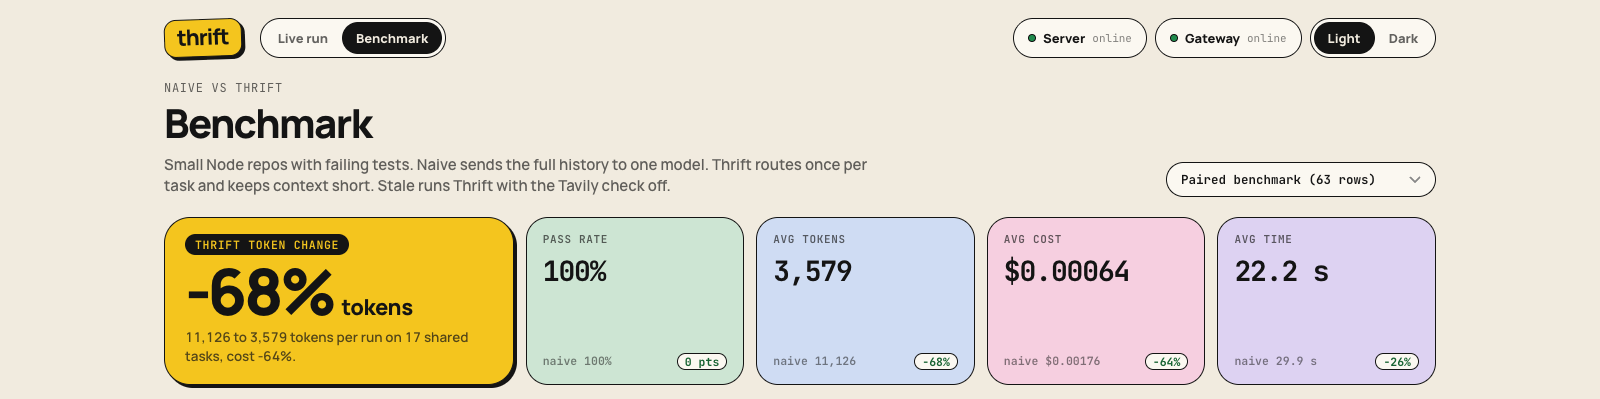
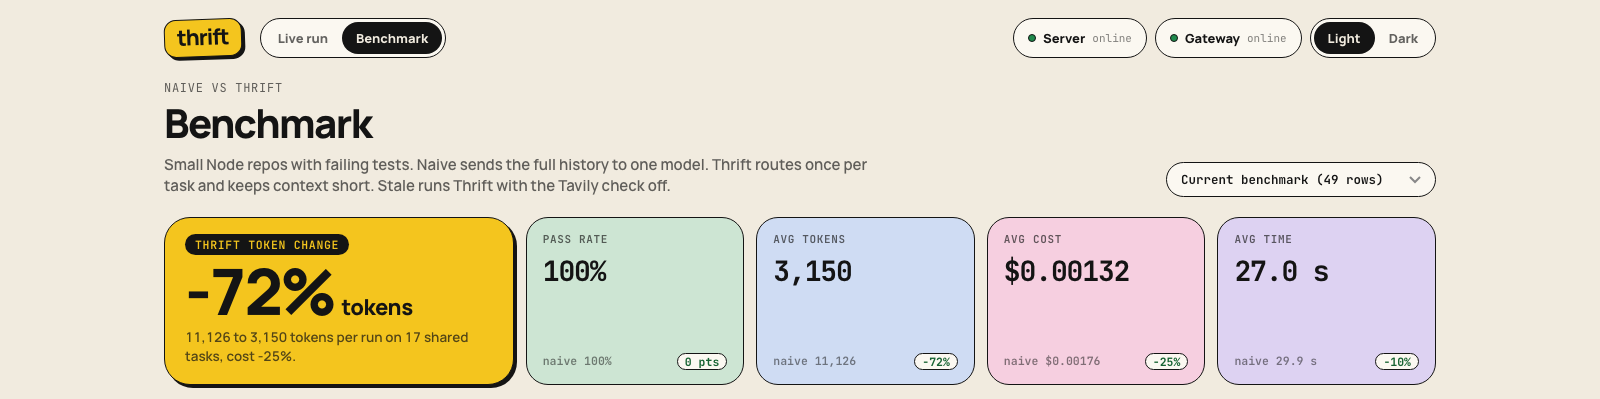
Rerun Thrift on all tasks after the write_files change

diff --git a/dashboard/server.ts b/dashboard/server.ts
@@ -229,13 +229,27 @@ function summary(run: Run) {
 
 const rawBenchFile = /^run-[\w.-]+\.jsonl$/;
 
-function pairedBench() {
+// A suite is a manifest of result files, each optionally limited to some
+// modes. "current-suite" pairs the recorded naive runs with the latest Thrift
+// run; "paired-suite" is the first full comparison.
+const suites = [
+  { name: "current-suite", label: "Current benchmark" },
+  { name: "paired-suite", label: "First benchmark" },
+];
+
+function suiteBench(name: string) {
   try {
-    const manifest: unknown = JSON.parse(fs.readFileSync(path.join(benchDir, "paired-suite.json"), "utf8"));
-    if (!Array.isArray(manifest) || !manifest.length || !manifest.every((name) => typeof name === "string" && rawBenchFile.test(name))) return null;
-    const batches = [...new Set<string>(manifest)].map(readBench);
-    if (batches.some((batch) => !batch)) return null;
-    return { name: "paired-suite", rows: batches.flatMap((batch) => batch?.rows ?? []), summary: null };
+    const manifest: unknown = JSON.parse(fs.readFileSync(path.join(benchDir, `${name}.json`), "utf8"));
+    if (!Array.isArray(manifest) || !manifest.length) return null;
+    const entries = manifest.map((e) => (typeof e === "string" ? { file: e, modes: null } : e));
+    if (!entries.every((e) => typeof e?.file === "string" && rawBenchFile.test(e.file))) return null;
+    const rows: any[] = [];
+    for (const e of entries) {
+      const batch = readBench(e.file);
+      if (!batch) return null;
+      rows.push(...batch.rows.filter((row) => !Array.isArray(e.modes) || e.modes.includes(row.mode)));
+    }
+    return { name, rows, summary: null };
   } catch {
     return null;
   }
@@ -264,16 +278,17 @@ function listBench() {
       };
     })
     .sort((a, b) => b.mtime - a.mtime);
-  const paired = pairedBench();
-  if (!paired) return files;
-  return [{
-    name: paired.name, label: "Paired benchmark", rows: paired.rows.length,
-    mtime: 0, hasSummary: false, hasFreshness: false, hasCost: paired.rows.some((row) => row.cost != null),
-  }, ...files];
+  const listed = suites.flatMap((suite) => {
+    const data = suiteBench(suite.name);
+    return data
+      ? [{ name: suite.name, label: suite.label, rows: data.rows.length, mtime: 0, hasSummary: false, hasFreshness: false, hasCost: data.rows.some((row) => row.cost != null) }]
+      : [];
+  });
+  return [...listed, ...files];
 }
 
 function readBench(name: string): { name: string; rows: any[]; summary: unknown } | null {
-  if (name === "paired-suite") return pairedBench();
+  if (suites.some((suite) => suite.name === name)) return suiteBench(name);
   if (!rawBenchFile.test(name)) return null;
   const full = path.join(benchDir, name);
   if (!fs.existsSync(full)) return null;

diff --git a/dashboard/src/Bench.tsx b/dashboard/src/Bench.tsx
@@ -24,7 +24,8 @@ function agg(rows: BenchRow[]): Agg | null {
 }
 
 function pickDefault(files: BenchFile[]) {
-  return files.find((file) => file.name === "paired-suite")
+  return files.find((file) => file.name === "current-suite")
+    ?? files.find((file) => file.name === "paired-suite")
     ?? [...files].sort((a, b) => b.rows - a.rows || Number(b.hasFreshness) - Number(a.hasFreshness) || b.mtime - a.mtime)[0];
 }
 
